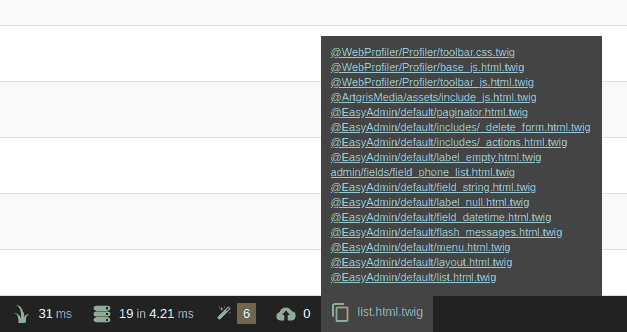
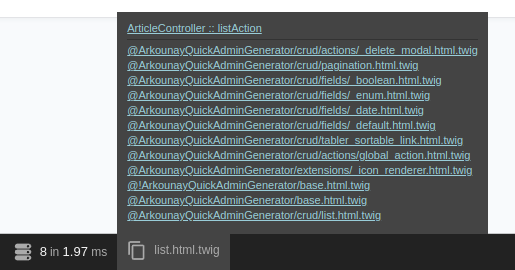
Bump dependency to Php 8, added current controller path, removed @WebProfiler paths

diff --git a/DataCollector/TwigCollector.php b/DataCollector/TwigCollector.php
@@ -2,14 +2,16 @@
 
 namespace Arkounay\Bundle\TwigCopyLocationBundle\DataCollector;
 
+use Symfony\Component\EventDispatcher\EventSubscriberInterface;
 use Symfony\Component\HttpFoundation\Request;
 use Symfony\Component\HttpFoundation\Response;
 use Symfony\Component\HttpKernel\DataCollector\DataCollector;
 use Symfony\Component\HttpKernel\DataCollector\LateDataCollectorInterface;
+use Symfony\Component\HttpKernel\Event\ControllerEvent;
+use Symfony\Component\HttpKernel\KernelEvents;
+use Symfony\Component\VarDumper\Cloner\Data;
 use Twig\Environment;
 use Twig\Error\LoaderError;
-use Twig\Markup;
-use Twig\Profiler\Dumper\HtmlDumper;
 use Twig\Profiler\Profile;
 
 /**
@@ -17,16 +19,20 @@ use Twig\Profiler\Profile;
  * @package Arkounay\Bundle\TwigCopyLocationBundle\DataCollector
  * Can't extend TwigDataCollector anymore since it's marked as final
  */
-class TwigCollector extends DataCollector implements LateDataCollectorInterface
+class TwigCollector extends DataCollector implements EventSubscriberInterface, LateDataCollectorInterface
 {
-    private $profile;
-    private $twig;
-    private $computed;
 
-    public function __construct(Profile $profile, Environment $twig = null)
+    private \SplObjectStorage $controllers;
+
+    public function __construct(private readonly Profile $profile, private readonly Environment $twig)
     {
-        $this->profile = $profile;
-        $this->twig = $twig;
+        $this->controllers = new \SplObjectStorage();
+    }
+
+
+    public static function getSubscribedEvents(): array
+    {
+        return [KernelEvents::CONTROLLER => 'onKernelController'];
     }
 
     /**
@@ -36,6 +42,7 @@ class TwigCollector extends DataCollector implements LateDataCollectorInterface
      */
     public function collect(Request $request, Response $response, \Throwable $exception = null)
     {
+        $this->data['controller'] = $this->parseController($this->controllers[$request]);
     }
 
     /**
@@ -44,8 +51,12 @@ class TwigCollector extends DataCollector implements LateDataCollectorInterface
     public function reset()
     {
         $this->profile->reset();
-        $this->computed = null;
         $this->data = [];
+    }
+
+    public function onKernelController(ControllerEvent $event): void
+    {
+        $this->controllers[$event->getRequest()] = $event->getController();
     }
 
     /**
@@ -68,7 +79,7 @@ class TwigCollector extends DataCollector implements LateDataCollectorInterface
                     $template = null;
                 }
 
-                if (null !== $template && '' !== $path = $template->getSourceContext()->getPath()) {
+                if (null !== $template && '' !== ($path = $template->getSourceContext()->getPath()) && !str_contains($name, '@WebProfiler')) {
                     $this->data['template_paths'][$name] = $path;
                 }
             }
@@ -80,110 +91,84 @@ class TwigCollector extends DataCollector implements LateDataCollectorInterface
         $templateFinder($this->profile);
     }
 
-    public function getTime()
+    public function getController(): array|string|Data
     {
-        return $this->getProfile()->getDuration() * 1000;
+        return $this->data['controller'];
     }
 
-    public function getTemplateCount()
-    {
-        return $this->getComputedData('template_count');
-    }
-
-    public function getTemplatePaths()
+    public function getTemplatePaths(): array
     {
         return $this->data['template_paths'];
     }
 
-    public function getTemplates()
+    /**
+     * @return array|string An array of controller data or a simple string
+     */
+    private function parseController(array|object|string|null $controller): array|string
     {
-        return $this->getComputedData('templates');
-    }
-
-    public function getBlockCount()
-    {
-        return $this->getComputedData('block_count');
-    }
-
-    public function getMacroCount()
-    {
-        return $this->getComputedData('macro_count');
-    }
-
-    public function getHtmlCallGraph()
-    {
-        $dumper = new HtmlDumper();
-        $dump = $dumper->dump($this->getProfile());
-
-        // needed to remove the hardcoded CSS styles
-        $dump = str_replace([
-            '<span style="background-color: #ffd">',
-            '<span style="color: #d44">',
-            '<span style="background-color: #dfd">',
-            '<span style="background-color: #ddf">',
-        ], [
-            '<span class="status-warning">',
-            '<span class="status-error">',
-            '<span class="status-success">',
-            '<span class="status-info">',
-        ], $dump);
-
-        return new Markup($dump, 'UTF-8');
-    }
-
-    public function getProfile()
-    {
-        if (null === $this->profile) {
-            $this->profile = unserialize($this->data['profile'], ['allowed_classes' => ['Twig_Profiler_Profile', 'Twig\Profiler\Profile']]);
+        if (\is_string($controller) && str_contains($controller, '::')) {
+            $controller = explode('::', $controller);
         }
 
-        return $this->profile;
-    }
+        if (\is_array($controller)) {
+            try {
+                $r = new \ReflectionMethod($controller[0], $controller[1]);
 
-    private function getComputedData(string $index)
-    {
-        if (null === $this->computed) {
-            $this->computed = $this->computeData($this->getProfile());
-        }
-
-        return $this->computed[$index];
-    }
-
-    private function computeData(Profile $profile)
-    {
-        $data = [
-            'template_count' => 0,
-            'block_count' => 0,
-            'macro_count' => 0,
-        ];
-
-        $templates = [];
-        foreach ($profile as $p) {
-            $d = $this->computeData($p);
-
-            $data['template_count'] += ($p->isTemplate() ? 1 : 0) + $d['template_count'];
-            $data['block_count'] += ($p->isBlock() ? 1 : 0) + $d['block_count'];
-            $data['macro_count'] += ($p->isMacro() ? 1 : 0) + $d['macro_count'];
-
-            if ($p->isTemplate()) {
-                if (!isset($templates[$p->getTemplate()])) {
-                    $templates[$p->getTemplate()] = 1;
-                } else {
-                    ++$templates[$p->getTemplate()];
-                }
-            }
-
-            foreach ($d['templates'] as $template => $count) {
-                if (!isset($templates[$template])) {
-                    $templates[$template] = $count;
-                } else {
-                    $templates[$template] += $count;
+                return [
+                    'class' => \is_object($controller[0]) ? get_debug_type($controller[0]) : $controller[0],
+                    'method' => $controller[1],
+                    'file' => $r->getFileName(),
+                    'line' => $r->getStartLine(),
+                ];
+            } catch (\ReflectionException) {
+                if (\is_callable($controller)) {
+                    // using __call or  __callStatic
+                    return [
+                        'class' => \is_object($controller[0]) ? get_debug_type($controller[0]) : $controller[0],
+                        'method' => $controller[1],
+                        'file' => 'n/a',
+                        'line' => 'n/a',
+                    ];
                 }
             }
         }
-        $data['templates'] = $templates;
 
-        return $data;
+        if ($controller instanceof \Closure) {
+            $r = new \ReflectionFunction($controller);
+
+            $controller = [
+                'class' => $r->getName(),
+                'method' => null,
+                'file' => $r->getFileName(),
+                'line' => $r->getStartLine(),
+            ];
+
+            if (str_contains($r->name, '{closure}')) {
+                return $controller;
+            }
+            $controller['method'] = $r->name;
+
+            if ($class = $r->getClosureScopeClass()) {
+                $controller['class'] = $class->name;
+            } else {
+                return $r->name;
+            }
+
+            return $controller;
+        }
+
+        if (\is_object($controller)) {
+            $r = new \ReflectionClass($controller);
+
+            return [
+                'class' => $r->getName(),
+                'method' => null,
+                'file' => $r->getFileName(),
+                'line' => $r->getStartLine(),
+            ];
+        }
+
+        return \is_string($controller) ? $controller : 'n/a';
     }
 
     /**
@@ -193,5 +178,5 @@ class TwigCollector extends DataCollector implements LateDataCollectorInterface
     {
         return 'app.twig_collector';
     }
-    
+
 }

diff --git a/README.md b/README.md
@@ -1,8 +1,8 @@
 # Twig Copy Location Bundle
 
-This just adds the current twig filename in the debug bar, and allows you to copy its path easily instead of clicking the default twig block, and then copying the file.
+This just adds the current twig filename in the debug bar, and allows you to copy its path. Also adds the current controller name and path.
 
-Useful when you need to change something and just needs to copy the file's path to find it quickly in your IDE.
+Useful when you need to navigate quickly and want to quickly go to the current controller or the current twig, just to copy the file's path in your IDE, search by file, paste, and you're done.
 
 ![demo-image](https://github.com/arkounay/twig-copy-location-bundle/blob/master/demo.png)
 
